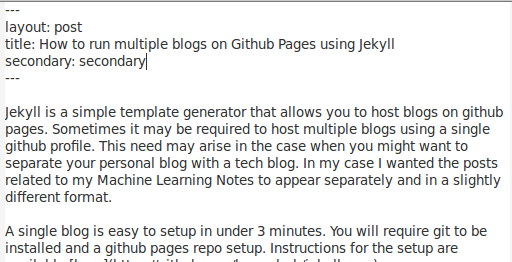
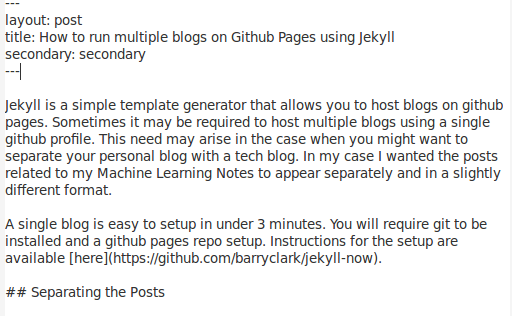
fixed typo

diff --git a/_posts/blog/2016-01-6-multiple-blogs -on-single-jekyll-instance.md b/_posts/blog/2016-01-6-multiple-blogs -on-single-jekyll-instance.md
@@ -1,7 +1,6 @@
 ---
 layout: post
 title: How to run multiple blogs on Github Pages using Jekyll
-secondary: secondary
 ---
 
 Jekyll is a simple template generator that allows you to host blogs on github pages. Sometimes it may be required to host multiple blogs using a single github profile. This need may arise in the case when you might want to separate your personal blog with a tech blog. In my case I wanted the posts related to my Machine Learning Notes to appear separately and in a slightly different format. 
@@ -12,7 +11,7 @@ A single blog is easy to setup in under 3 minutes. You will require git to be in
 
 #### Step 1 Content Separation
 To keep your posts separate for different blogs in the _posts directory create one directory for each blog. 
-![Screenshot]({{ site.url }}/public/img/folder.jpeg)
+![Screenshot]({{ site.url }}/public/img/folder.jpg)
 If you reload you will still see all your posts listed together as before. This is because the directory separation we just did is only for our convenience and makes no difference for Jekyll.
 
 Now we will define a custom parameter in our post files that will allows Jekyll to figure out that our post belongs to which particular blog.
